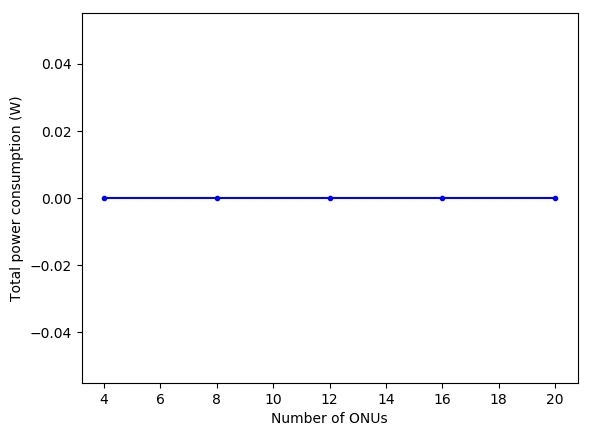
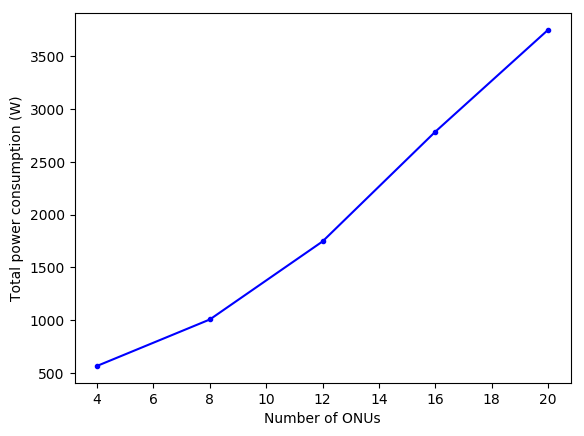
Started elastic experiments

diff --git a/experiments/run_plot_cran_eon1.py b/experiments/run_plot_cran_eon1.py
@@ -1,0 +1,188 @@
+# Experiment 1 parameters:
+# C-RAN, 100000 units of distance between nodes
+# 5 seconds
+# 4, 8, 12, 16, 20 RRHs
+# Traffic generation: constant 250/s
+# Channels: 16 of size 200
+
+import sys, os
+sys.path.append("./../")
+
+import elastic as sim
+import matplotlib.pyplot as plt
+import numpy as np
+
+sim.DEBUG = True
+
+def compute_mean_erlang(packets, total_time, total_channels, channel_size, delta=0.1):
+    #print("got packets:")
+    #for packet in packets:
+    #    print("\t",packet)
+
+    # Computes mean erlang from a list of packets
+    erlangs = np.zeros(int(total_time/delta))
+    for i in range(len(erlangs)):
+        current_time = i*delta
+        for packet in packets:
+            if current_time >= packet["start"] and current_time <= packet["end"]:
+                erlangs[i] += ((packet["size"]) / (channel_size))
+    #for i in range(len(erlangs)):
+    #    print("erlang at {}: {}".format(i*delta, erlangs[i]))
+    return erlangs.mean(), erlangs.std()
+
+# seed
+sim.random.seed(13)
+
+# default values
+sim.tg_default_size = lambda x: 250
+sim.tg_default_dist = lambda x: 1
+sim.slot_default_bandwidth = 200
+ONU_bitRate_up = sim.slot_default_bandwidth * 8
+sim.ONU_consumption = lambda x: 15
+sim.PN_consumption = lambda x: 25
+sim.Ant_consumption = lambda x: 7
+
+max_onus = 20
+onu_step = 20
+
+run_time = 5
+
+plot1 = int(max_onus/onu_step) * [0]
+plot2 = int(max_onus/onu_step) * [0]
+plot3 = int(max_onus/onu_step) * [0]
+plot4 = int(max_onus/onu_step) * [0]
+plot4e= int(max_onus/onu_step) * [0]
+plot5 = int(max_onus/onu_step) * [0]
+
+# seeds = [2, 3, 5, 7, 13, 17, 19, 23, 29, 31, 61, 67, 71, 73, 79, 83, 89, 97, 101, 107, 109, 113, 127, 131, 163, 167, 173, 179, 181, 317, 331, 337, 347, 349, 353]
+#seeds = [1,2,3,4]
+seeds=[1]
+
+for s in seeds:
+    # seed
+    sim.random.seed(s)
+    lost_req = []
+    count_req = []
+    duplicated_req = []
+    power_consumption = []
+
+    for f in range(onu_step,max_onus+1, onu_step):
+        print("Using seed {", s, "} on ONU {", f, "}")
+        # override suffix writer
+        sim.packet_w = sim.Writer("# id src init_time waited_time freq size processed_time\n")
+
+        # environment
+        env = sim.simpy.Environment()
+
+        # topology
+        antenas = f
+        onus = f 
+        pns = 1
+        splts = 1
+        max_frequencies = 16
+
+        matrix = []
+        for z in range(f):
+            matrix.append([z, f+z, 100000])
+            matrix.append([f+z, 2*f+1, 100000])
+        matrix.append([2*f+1, 2*f, 100000])
+
+        nodes = sim.create_topology(env, antenas, onus, pns, splts, matrix, max_frequencies)
+
+        # start
+        print("\tBegin")
+        env.run(until=run_time)
+        print("\tEnd")
+
+        total_lost = sim.total_lost
+        total_duplicated = sim.total_duplicated
+        total_received = sim.total_requests
+
+        lost_req.append(total_lost)
+        duplicated_req.append(total_duplicated)
+        count_req.append(total_received)
+
+        total_consumption = 0
+        for vm in nodes:
+            if(type(vm) is sim.Splitter):
+                continue
+            else:
+                total_consumption += vm.consumption()
+        power_consumption.append(total_consumption)
+
+        sim.packet_w.close()
+
+    # read files, generate graph
+    mean_waited_array=[0]
+    mean_erlangs = [0]
+    std_erlangs = [0]
+
+    for f in sim.output_files:
+        file = open(f, "r")
+        total = 0
+        lines = 0
+        packets = []
+        for line in file:
+            line_sep = line.split(' ')
+            if(line_sep[0][0] == "#"):
+                continue
+            total += float(line_sep[3])
+            packets.append({"start": float(line_sep[2]), "size": float(line_sep[5]), "end": float(line_sep[6])})
+            lines += 1
+        file.close()
+
+        total = total / lines
+        mean_waited_array.append(total)
+
+        mean_erlang, std_erlang = compute_mean_erlang(packets, total_time=run_time, total_channels=max_frequencies, channel_size=sim.slot_default_bandwidth)
+        mean_erlangs.append(mean_erlang)
+        std_erlangs.append(std_erlang)
+
+    for i in range(len(lost_req)):
+        plot1[i] += lost_req[i] / len(seeds)
+        plot2[i] += (lost_req[i]/(count_req[i] if count_req[i] != 0 else 1)) / len(seeds)
+        plot3[i] += mean_waited_array[i] / len(seeds)
+        plot4[i] += mean_erlangs[i] / len(seeds)
+        plot4e[i]+= std_erlangs[i] / len(seeds)
+        plot5[i] += power_consumption[i] / len(seeds)
+
+
+results_file = open(os.path.join("results", "cran_eon1.txt") ,"w")
+results_file.write("n_ONUS\tLost_req\tLost_pct\tAvg_wait\terlang\terlang_std\tpower\n")
+for n_onu, lost_req, lost_pct, avg_wait, erlang, erlang_std, power in zip(range(onu_step,max_onus+1, onu_step), plot1, plot2, plot3, plot4, plot4e, plot5):
+    results_file.write("{}\t{}\t{}\t{}\t{}\t{}\t{}\n".format(n_onu, lost_req, lost_pct, avg_wait, erlang, erlang_std, power))
+
+results_file.close()
+
+plt.plot(range(onu_step,max_onus+1, onu_step), plot1, 'g.-')
+plt.ylabel('Number of Requests Lost')
+plt.xlabel("Number of ONUs")
+plt.savefig('plots/cran_eon1_lost_req.png', bbox_inches='tight')
+plt.clf()
+
+plt.plot(range(onu_step,max_onus+1, onu_step), plot2, 'b.-')
+plt.ylabel('Percentage of Requests Lost')
+plt.xlabel("Number of ONUs")
+plt.savefig('plots/cran_eon1_lost_pct.png', bbox_inches='tight')
+plt.clf()
+
+plt.plot(range(onu_step,max_onus+1, onu_step), plot3, 'r.-')
+plt.ylabel('Average waited time (s)')
+plt.xlabel("Number of ONUs")
+plt.savefig('plots/cran_eon1_avg_wait.png', bbox_inches='tight')
+plt.clf()
+
+plt.errorbar(range(onu_step,max_onus+1, onu_step), plot4, plot4e, None, 'c.-')
+plt.ylabel('Mean bandwidth usage (erlangs)')
+plt.xlabel("Number of ONUs")
+plt.savefig('plots/cran_eon1_erlang.png', bbox_inches='tight')
+plt.clf()
+
+plt.plot(range(onu_step,max_onus+1, onu_step), plot5, 'b.-')
+plt.ylabel('Total power consumption (W)')
+plt.xlabel("Number of ONUs")
+plt.savefig('plots/cran_eon1_power.png', bbox_inches='tight')
+plt.clf()
+
+
+print("Finished")

diff --git a/experiments/run_plot_elastic.py b/experiments/run_plot_elastic.py
@@ -1,3 +1,7 @@
+
+import sys, os
+sys.path.append("./../")
+
 import elastic as sim
 import random
 import matplotlib.pyplot as plt
@@ -11,7 +15,7 @@ sim.random.seed(13)
 sim.tg_default_size = lambda x: 250
 sim.tg_default_dist = lambda x: random.uniform(0.9, 1.1)
 sim.slot_default_bandwidth = 100
-ONU_bitRate_up = sim.DBA_IPACT_default_bandwidth * 8
+ONU_bitRate_up = sim.slot_default_bandwidth * 8
 sim.ONU_consumption = lambda x: 15
 sim.PN_consumption = lambda x: 25
 sim.Ant_consumption = lambda x: 7
